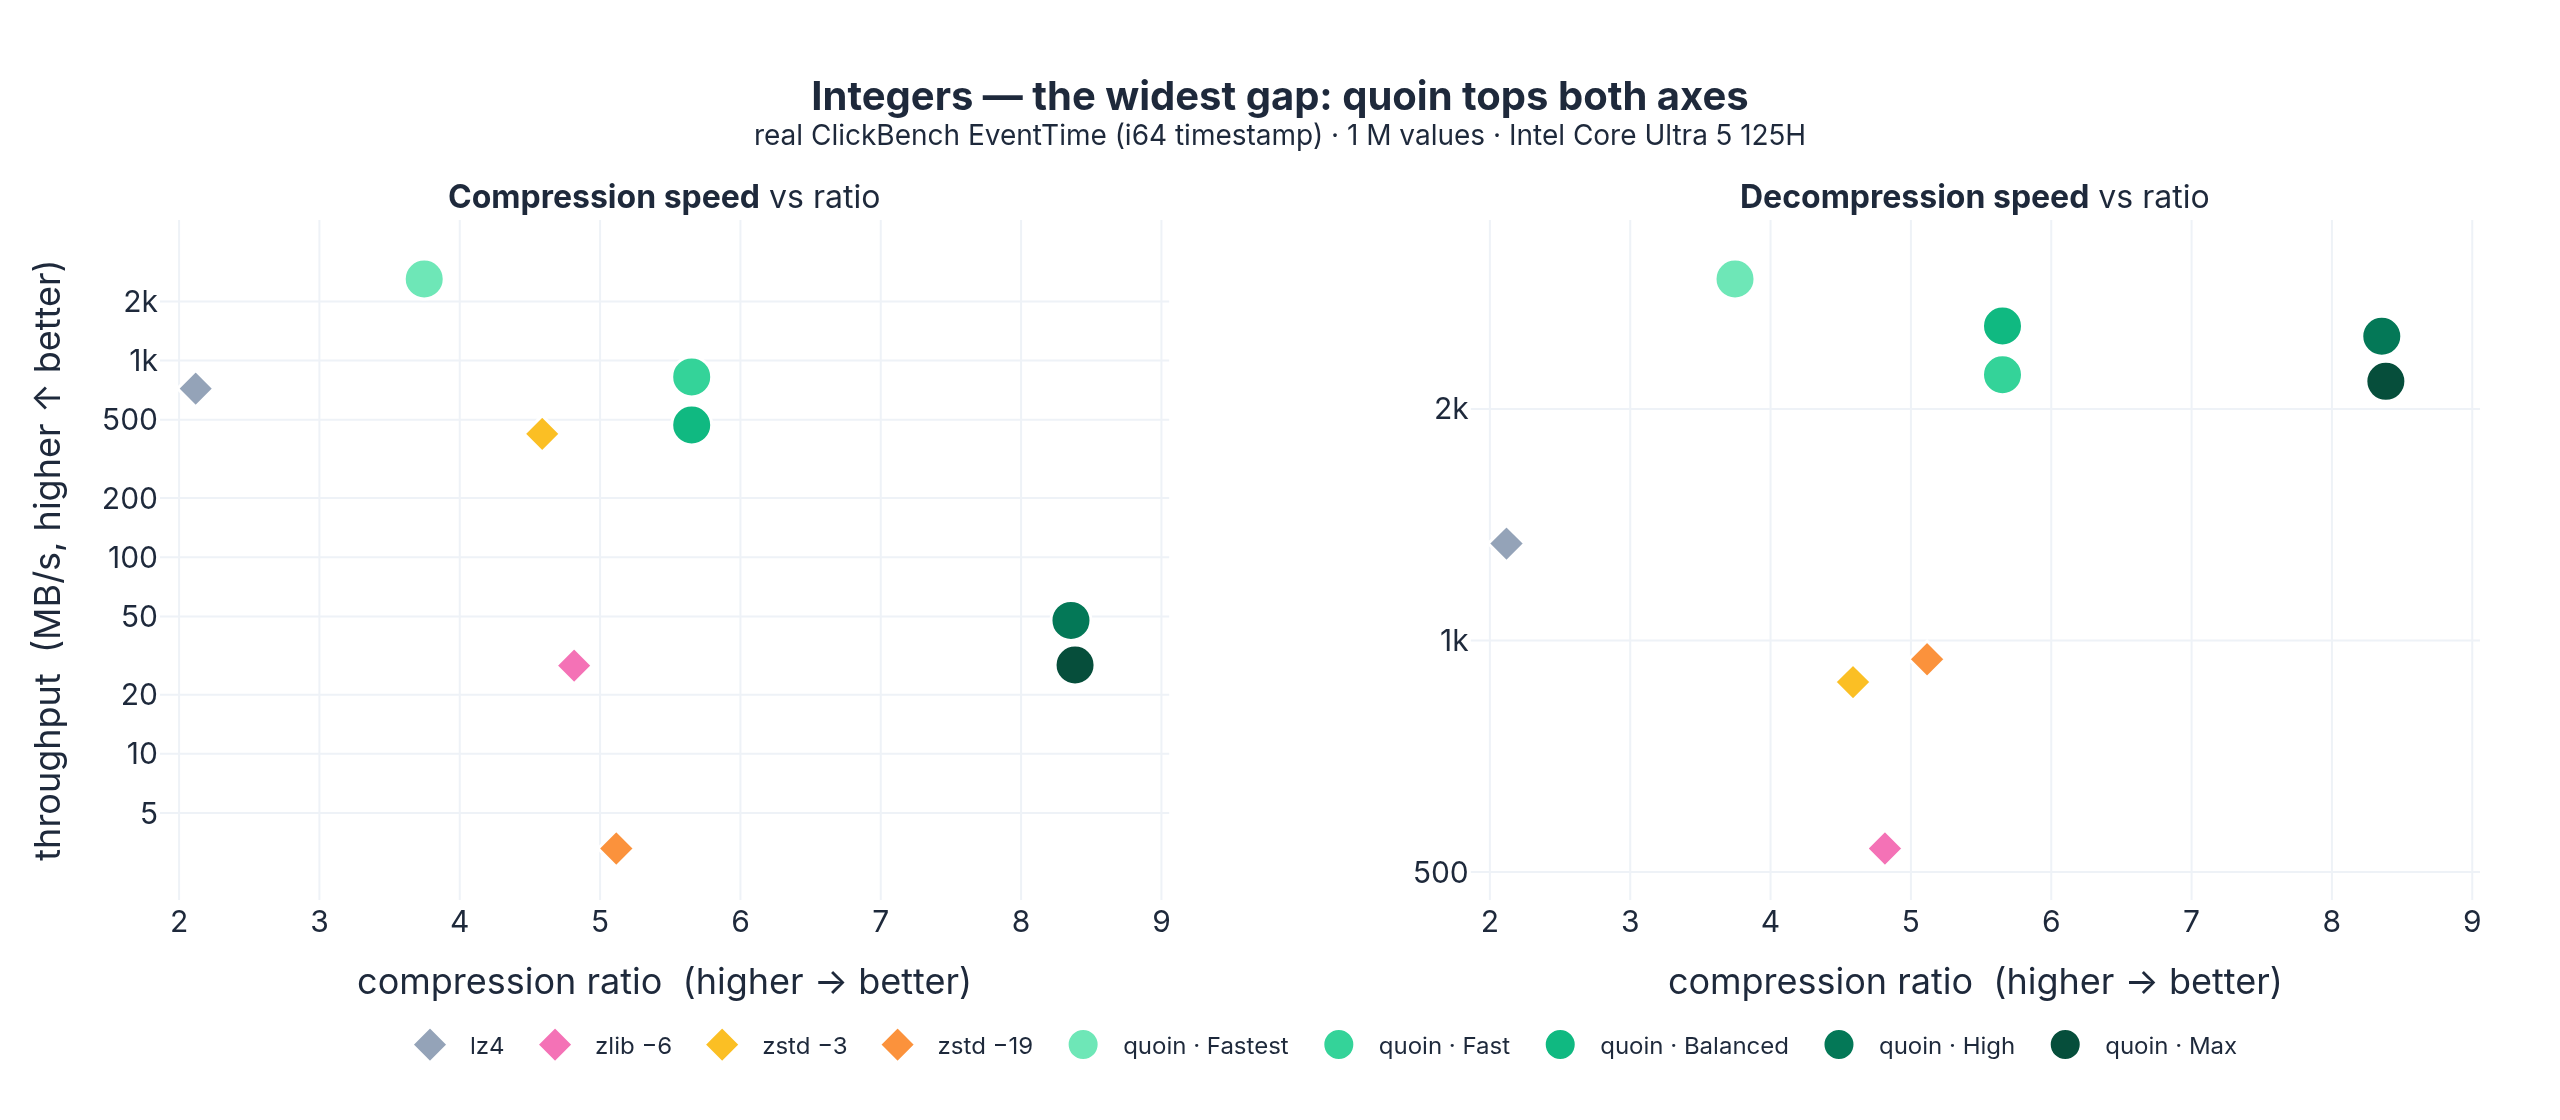
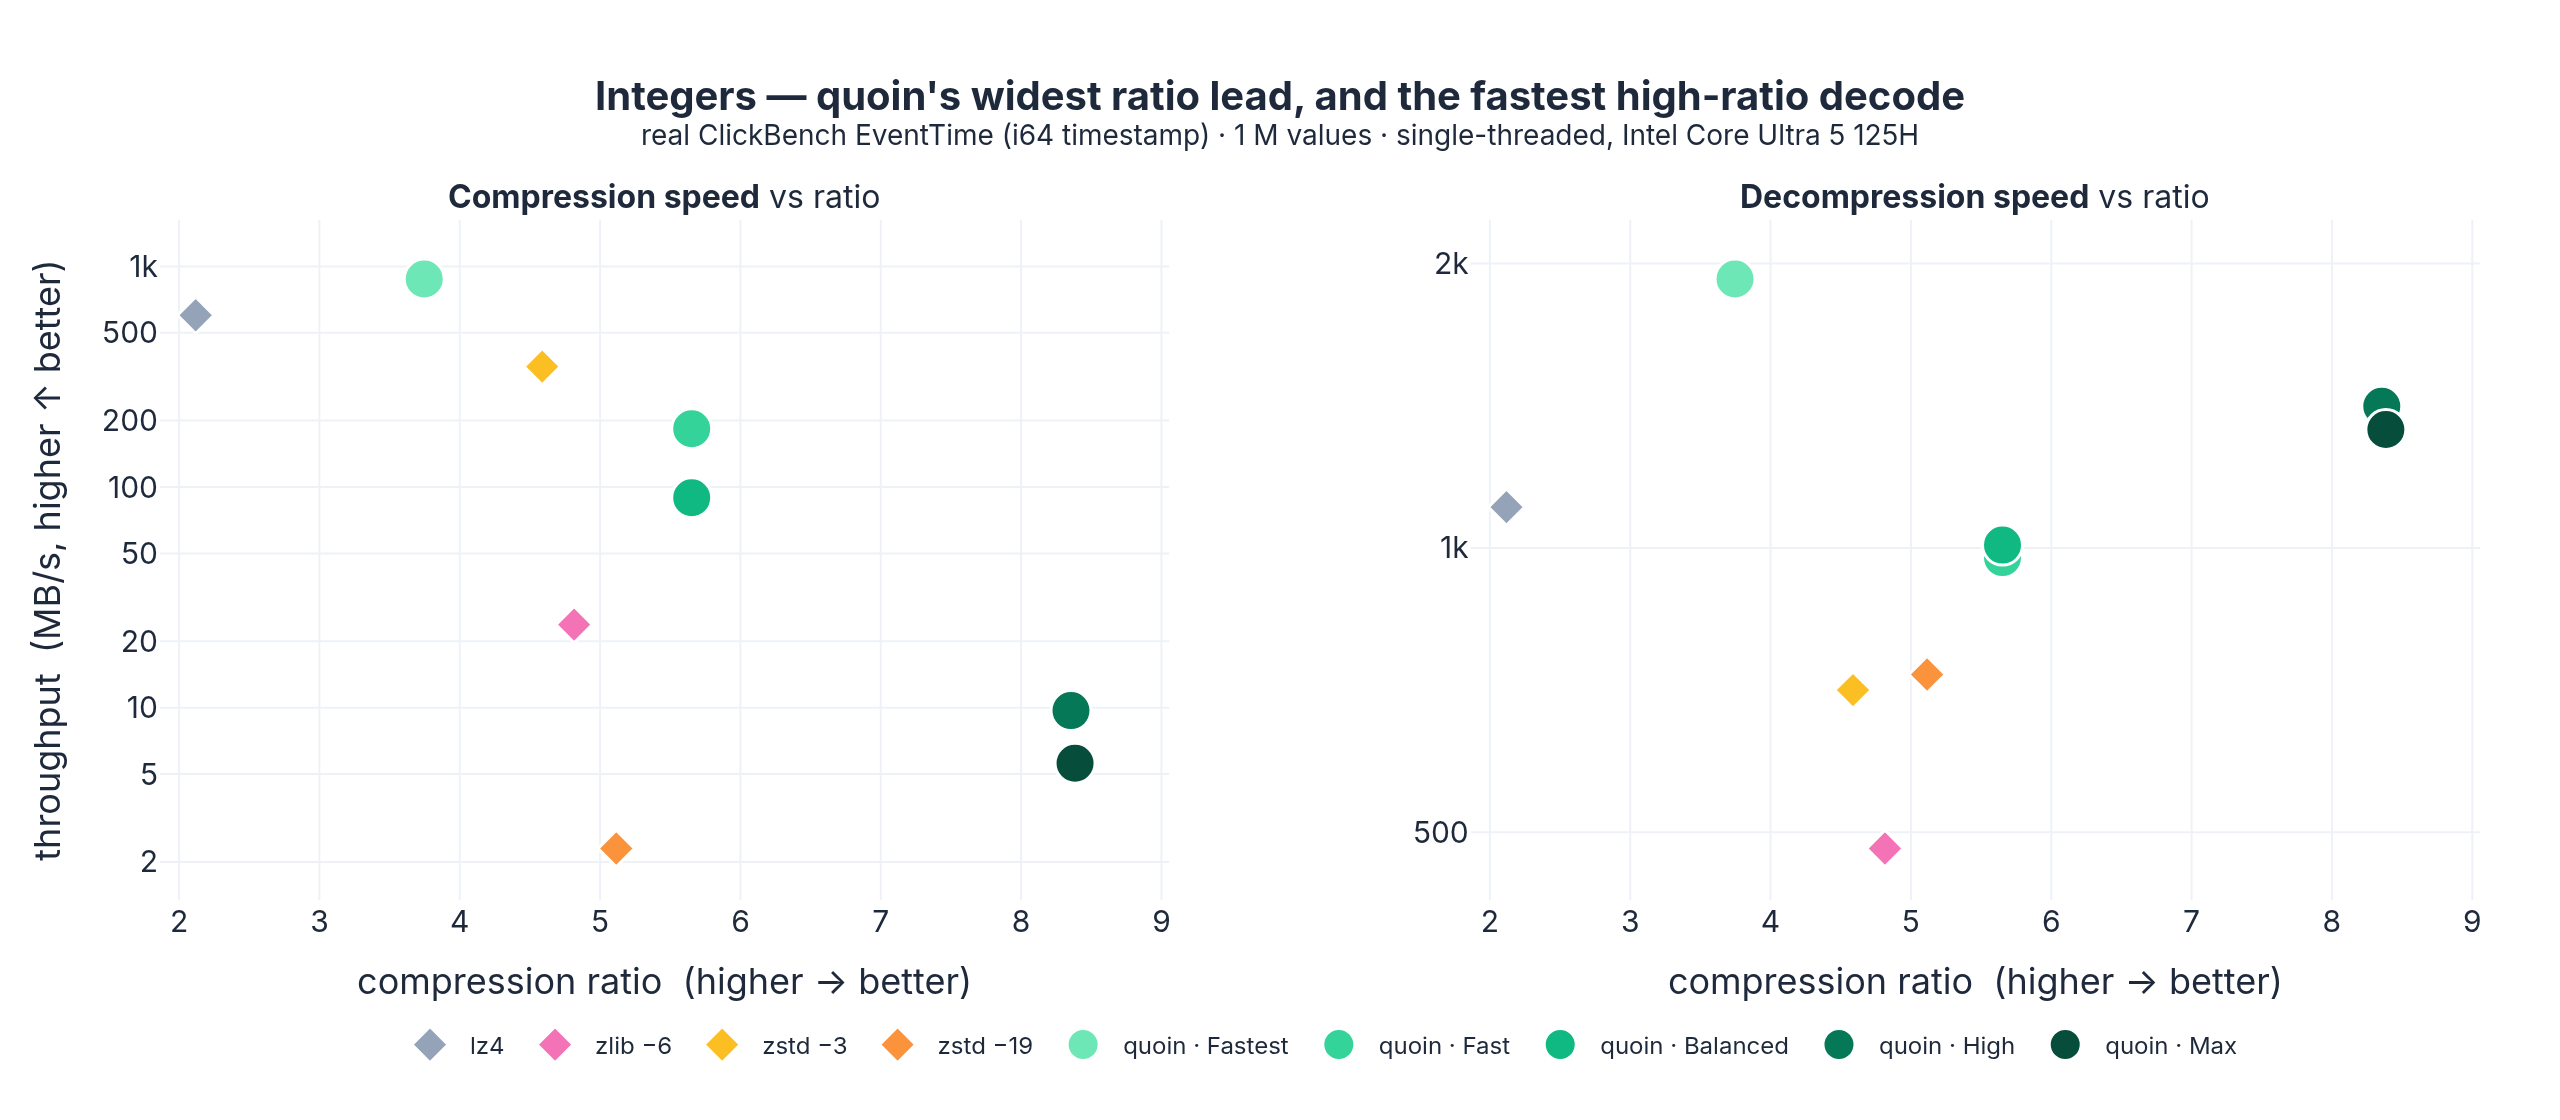
bench: measure single-threaded (no rayon) for a fair comparison; honest captions
The previous numbers ran quoin block-parallel (8 P-core threads) against
single-threaded lz4/zlib/zstd — not apples-to-apples. Rebuild quoin without the
parallel feature (no rayon), pin to one P-core (taskset -c 0), and re-measure both
suites. Single-threaded, quoin's win is ratio + decode speed; encode is a genuine
tradeoff (the per-block codec search is CPU-heavy), so the Pareto headlines no
longer claim 'tops both axes'. Regenerate all three per-type charts (now with the
full Fastest->Max level ladder and a shared legend) and update every table/prose
claim + methodology note in both READMEs and docs/BENCHMARKS.md.

Also lands three review fixes:
- Cargo.toml: declare rust-version = 1.88 (let-chains is the binding constraint).
- README: soften 'safe Rust' -> 'mostly safe Rust' and document the two unsafe
  blocks (CRC32C intrinsic, range-coder bounds elision) + pco's internal unsafe.
- bench_internals + benches/kernels.rs: bench the actual default rANS coder
  instead of the decode-only legacy tANS (needed to calibrate W_RC vs W_RANS).

diff --git a/benches/kernels.rs b/benches/kernels.rs
@@ -44,22 +44,25 @@ fn bench_entropy(c: &mut Criterion) {
     // A realistic residual stream: DFCM residuals of a smooth signal.
     let residuals = bi::dfcm_encode(&smooth_bits(), 16);
     let rc = bi::rc_compress(&residuals);
-    let tans = bi::tans_compress(&residuals);
+    let rans = bi::rans_compress(&residuals);
 
     let mut g = c.benchmark_group("entropy");
     g.throughput(Throughput::Bytes(residuals.len() as u64));
+    // The order-1 binary range coder: best ratio, slowest decode.
     g.bench_function("rc_compress", |b| {
         b.iter(|| bi::rc_compress(black_box(&residuals)))
     });
     g.bench_function("rc_decompress", |b| {
         b.iter(|| bi::rc_decompress(black_box(&rc), residuals.len()).unwrap())
     });
-    if let Some(t) = tans {
-        g.bench_function("tans_compress", |b| {
-            b.iter(|| bi::tans_compress(black_box(&residuals)))
+    // The 4-way interleaved rANS coder: the default at `Balanced`. Benchmarking
+    // it (not the decode-only legacy tANS) is what calibrates W_RC vs W_RANS.
+    if let Some(r) = rans {
+        g.bench_function("rans_compress", |b| {
+            b.iter(|| bi::rans_compress(black_box(&residuals)))
         });
-        g.bench_function("tans_decompress", |b| {
-            b.iter(|| bi::tans_decompress(black_box(&t), residuals.len()).unwrap())
+        g.bench_function("rans_decompress", |b| {
+            b.iter(|| bi::rans_decompress(black_box(&r), residuals.len()).unwrap())
         });
     }
     g.finish();

diff --git a/docs/plot_bench.py b/docs/plot_bench.py
@@ -93,18 +93,18 @@ def make_pareto(sub, headline, subtitle, fname):
 vol = df[(df.section == "volume") & (df.n == df[df.section == "volume"].n.max())]
 make_pareto(
     td[td.section == "EventTime"],
-    "Integers — the widest gap: quoin tops both axes",
-    "real ClickBench EventTime (i64 timestamp) · 1 M values · Intel Core Ultra 5 125H",
+    "Integers — quoin's widest ratio lead, and the fastest high-ratio decode",
+    "real ClickBench EventTime (i64 timestamp) · 1 M values · single-threaded, Intel Core Ultra 5 125H",
     "pareto_int.png")
 make_pareto(
     td[td.section == "city_temperature"],
-    "Decimals — quoin-Max takes the ratio, at a fraction of the encode cost",
-    "city_temperature stored as Decimal128 · 2 M values",
+    "Decimals — quoin-Max takes the best ratio; quoin leads on decode",
+    "city_temperature stored as Decimal128 · 2 M values · single-threaded",
     "pareto_decimal.png")
 make_pareto(
     vol[["codec", "ratio", "enc_mbps", "dec_mbps"]],
-    "Floats — quoin's hardest case, and still top-right",
-    "real arade4 f64 column · 9.9 M values",
+    "Floats — the narrowest gap (quoin's hardest case); still best ratio + fast decode",
+    "real arade4 f64 column · 9.9 M values · single-threaded",
     "pareto_float.png")
 
 

diff --git a/src/lib.rs b/src/lib.rs
@@ -572,6 +572,14 @@ pub mod bench_internals {
     pub fn tans_decompress(bytes: &[u8], max_len: usize) -> Result<Vec<u8>, Error> {
         crate::entropy::tans::decompress_bytes(bytes, max_len)
     }
+    /// The 4-way interleaved rANS coder — the actual default entropy coder at
+    /// `Balanced` (unlike the legacy `tans`, which is decode-only).
+    pub fn rans_compress(bytes: &[u8]) -> Option<Vec<u8>> {
+        crate::entropy::rans::compress_bytes(bytes)
+    }
+    pub fn rans_decompress(bytes: &[u8], max_len: usize) -> Result<Vec<u8>, Error> {
+        crate::entropy::rans::decompress_bytes(bytes, max_len)
+    }
 
     pub fn fcm_encode(vals: &[u64], predictor_log2: u8) -> Vec<u8> {
         crate::codecs::pred::encode(vals, predictor_log2)

diff --git a/README.md b/README.md
@@ -2,8 +2,13 @@
 
 📖 [Русская версия](README.ru.md)
 
-**A lossless, type-aware compressor for columns of numbers — written in safe
-Rust, built on the Apache Arrow data model.**
+**A lossless, type-aware compressor for columns of numbers — written in mostly
+safe Rust, built on the Apache Arrow data model.**
+
+(The only `unsafe` in quoin's own code is two small, documented blocks: the CRC32C
+hardware intrinsic in `hash.rs` and a bounds-check elision in the range coder's
+hot loop — every SIMD kernel also has a bit-exact safe fallback. The vendored
+`pco` backend uses more internal `unsafe` for its fast bit-reader.)
 
 quoin compresses columns of `f64`/`f32`/`i64`/`u64`/`i32`/`u32`/decimal (with
 null/validity bitmaps) by running a **per-block competition** of lightweight,
@@ -225,48 +230,62 @@ How that compares to **Parquet** as a compression layer:
 ## Benchmarks
 
 Measured on an Intel Core Ultra 5 125H, stable Rust release build (no
-`target-cpu=native`), **pinned to the 4 performance cores** (`taskset -c 0-7`,
-`RAYON_NUM_THREADS=8`) so the numbers are stable and don't drift onto the E-cores.
-Integer columns are real `i64`/`i32` from the ClickBench `hits` dataset; float
-columns are the **ALP benchmark corpus**; decimal columns are real f64 values
-stored as fixed-point `Decimal128`. Ratio = original ÷ compressed (higher is
-better); throughput in MB/s of *uncompressed* data (median of 3 trials). Baselines
-(`lz4`, `zlib`, `zstd`) are single-threaded bulk APIs; quoin uses its default
-block-parallel (rayon) path. Reproduce with:
+`target-cpu=native`), **single-threaded** — quoin built **without the `parallel`
+feature** (no rayon) and pinned to one P-core (`taskset -c 0`), so it's measured
+apples-to-apples against the single-threaded `lz4`/`zlib`/`zstd` bulk APIs. (quoin's
+default build *is* block-parallel; that just isn't a fair thing to put on the same
+axis as a single-threaded baseline.) Integer columns are real `i64`/`i32` from the
+ClickBench `hits` dataset; float columns are the **ALP benchmark corpus**; decimal
+columns are real f64 values stored as fixed-point `Decimal128`. Ratio = original ÷
+compressed (higher is better); throughput in MB/s of *uncompressed* data (median of
+3 trials). Reproduce with:
 
 ```bash
-# f64 (ALP corpus)
-cargo run --release --example bench_readme \
+# f64 (ALP corpus) — single-threaded, no rayon
+taskset -c 0 cargo run --release --no-default-features --example bench_readme \
     --features bench-zstd,bench-lz4,bench-deflate > bench.csv
 # integers (ClickBench parquet) + Decimal128
 PARQUET_FILE=datasets/parquet/clickbench_hits_0.parquet \
-cargo run --release --example bench_typed \
+taskset -c 0 cargo run --release --no-default-features --example bench_typed \
     --features bench-parquet,bench-zstd,bench-lz4,bench-deflate > typed.csv
 ```
 
 ### The ratio ⇄ speed tradeoff, per data type
 
-Each codec is one point — **top-right is best** (high ratio, high throughput) —
-with compression speed on the left and decompression speed on the right. The
-charts are ordered by how dramatic quoin's advantage is: **integers and decimals
-first** (where the specialized lanes pull furthest ahead), **floats last** (quoin's
-hardest case).
+All numbers are **single-threaded** (one P-core, no rayon) so quoin and the
+single-threaded `lz4`/`zlib`/`zstd` are measured apples-to-apples. Each codec is
+one point — **top-right is best** (high ratio, high throughput) — compression speed
+on the left, decompression on the right. The charts are ordered by quoin's ratio
+lead: **integers and decimals first** (where the specialized lanes pull furthest
+ahead), **floats last** (quoin's hardest case).
 
-**Integers** — quoin-Balanced lands top-right on *both* axes (higher ratio *and*
-faster than every baseline); quoin-Max stretches the ratio to 8.4×, while
-`zstd -19` only reaches 5.1× by collapsing to 3.3 MB/s compress:
+Two honest takeaways across all three types:
+
+- **Decode is quoin's frontier.** quoin holds the best ratio *and* a decode speed
+  at or above the baselines — the quoin levels trace the top-right edge of the
+  decompress panel (Fastest = fastest decode, Max = highest ratio, both still quick).
+- **Encode is a deliberate tradeoff.** The per-block codec *search* costs CPU, so
+  quoin's high-ratio levels encode slower than fast `lz4`/`zstd -3` (which buy that
+  speed with a far worse ratio). quoin still encodes **10–40× faster than `zstd -19`
+  at a better ratio**, and the level knob (Fastest→Max) lets you trade encode speed
+  for ratio explicitly.
+
+**Integers** — quoin-Max reaches 8.4× (vs `zstd -19`'s 5.1×) and decodes faster than
+every baseline; on encode it's slower than `zstd -3` but still ~3× faster than
+`zstd -19` at a much higher ratio:
 
 ![integer columns: ratio vs speed](docs/images/pareto_int.png)
 
-**Decimals** — quoin-Max takes the best ratio (17.4× vs `zstd -19`'s 14.3×) at
-~15× the encode speed; quoin-Balanced trades a hair of ratio for ~40× faster
-encode and the fastest decode:
+**Decimals** — quoin-Max takes the best ratio (17.4× vs `zstd -19`'s 14.3×);
+quoin-Balanced gets 13.3× at **40 MB/s** encode versus `zstd -19`'s 14.3× at
+**3 MB/s** (~13× faster), and the quoin levels own the decode panel:
 
 ![decimal columns: ratio vs speed](docs/images/pareto_decimal.png)
 
-**Floats** — the narrowest gap (mantissa bits are high-entropy), yet quoin still
-sits top-right: quoin-Balanced beats `zstd -19`'s ratio (2.53 vs 2.20) while
-compressing **~145× faster** and decompressing **~3.6× faster**:
+**Floats** — the narrowest gap (mantissa bits are high-entropy): quoin-Balanced
+beats `zstd -19`'s ratio (2.53 vs 2.20) and decodes **~2.7× faster**; here the fast
+`lz4`/`zstd -3` do encode faster (at 1.35–1.89× ratio), so floats are where quoin's
+encode-search cost is most visible:
 
 ![float columns: ratio vs speed](docs/images/pareto_float.png)
 
@@ -275,15 +294,15 @@ columns truncate the same data to show ratio is size-stable):
 
 | codec | ratio | compress MB/s | decompress MB/s | ratio @100 K | ratio @1 M |
 | --- | ---: | ---: | ---: | ---: | ---: |
-| quoin (Fastest) | 1.17 | **1561** | 2575 | 1.18 | 1.17 |
-| quoin (Fast) | 2.52 | 387 | 2572 | 2.47 | 2.51 |
-| **quoin (Balanced)** | **2.53** | 352 | **2607** | 2.55 | 2.52 |
-| quoin (High) | 2.72 | 114 | 2012 | 2.72 | 2.71 |
-| **quoin (Max)** | **2.72** | 45 | 1976 | 2.72 | 2.71 |
-| lz4 | 1.35 | 363 | 1856 | 1.32 | 1.34 |
-| zlib -6 | 1.95 | 40 | 360 | 1.91 | 1.94 |
-| zstd -3 | 1.89 | 201 | 738 | 1.86 | 1.88 |
-| zstd -19 | 2.20 | **2.4** | 730 | 2.17 | 2.19 |
+| quoin (Fastest) | 1.17 | 496 | 1144 | 1.18 | 1.17 |
+| quoin (Fast) | 2.52 | 78 | **1594** | 2.47 | 2.51 |
+| **quoin (Balanced)** | **2.53** | 67 | 1580 | 2.55 | 2.52 |
+| quoin (High) | 2.72 | 22 | 820 | 2.72 | 2.71 |
+| **quoin (Max)** | **2.72** | 9 | 750 | 2.72 | 2.71 |
+| lz4 | 1.35 | **326** | 1577 | 1.32 | 1.34 |
+| zlib -6 | 1.95 | 32 | 305 | 1.91 | 1.94 |
+| zstd -3 | 1.89 | 172 | 633 | 1.86 | 1.88 |
+| zstd -19 | 2.20 | 2.4 | 591 | 2.17 | 2.19 |
 
 ### Ratio across real columns
 
@@ -336,11 +355,11 @@ the raw little-endian value bytes.
 Takeaways: quoin-Max takes the best ratio on **every decimal column** and most
 integer columns; it ties everyone at ~1.0× on genuinely random IDs (`WatchID` —
 nothing compresses that), and `zstd -19` edges it on one structured i32
-(`RegionID`). The bigger story is the **speed gap at equal-or-better ratio**: on
-`city_temperature` decimals quoin-Balanced reaches 13.3× at **134 MB/s** compress,
-versus `zstd -19`'s 14.3× at **3.2 MB/s** — ~40× faster encode for a comparable
-ratio, and quoin-Max then beats it outright. The relative speed advantage is the
-same one f64 shows, but the absolute ratios are far higher.
+(`RegionID`). Single-threaded, quoin's win is **ratio + decode speed**: on
+`city_temperature` decimals quoin-Balanced reaches 13.3× decoding at ~2 GB/s, and
+quoin-Max pushes to 17.4× — above `zstd -19`'s 14.3×. The same caveat as the floats
+applies on encode: the codec search is CPU-heavy, so the fast LZ baselines encode
+quicker (at far lower ratio) while quoin still encodes well ahead of `zstd -19`.
 
 ## Performance: SIMD, multiversion, rayon
 

diff --git a/docs/BENCHMARKS.md b/docs/BENCHMARKS.md
@@ -1,23 +1,22 @@
 # Benchmarks
 
-## README benchmark — P-core-pinned (`bench_readme.rs` / `bench_typed.rs`)
+## README benchmark — single-threaded (`bench_readme.rs` / `bench_typed.rs`)
 
 The authoritative numbers behind the README. Measured on an Intel Core Ultra 5
-125H, stable Rust release build (no `target-cpu=native`), **pinned to the 4
-performance cores** (`taskset -c 0-7`, `RAYON_NUM_THREADS=8`) so throughput is
-stable and never drifts onto the E-cores. Ratio = original ÷ compressed;
-throughput in MB/s of *uncompressed* data (median of 3). Baselines (`lz4`/`zlib`/
-`zstd`) are single-threaded bulk APIs; quoin uses its block-parallel rayon path.
+125H, stable Rust release build (no `target-cpu=native`), **single-threaded** —
+quoin built **without the `parallel` feature** (no rayon) and pinned to one P-core
+(`taskset -c 0`), so it's apples-to-apples with the single-threaded `lz4`/`zlib`/
+`zstd` bulk APIs (quoin's default build is block-parallel — not a fair thing to put
+on one axis against a single-threaded baseline). Ratio = original ÷ compressed;
+throughput in MB/s of *uncompressed* data (median of 3).
 
 ```bash
-# f64 (ALP corpus)
-RAYON_NUM_THREADS=8 taskset -c 0-7 \
-  cargo run --release --example bench_readme \
+# f64 (ALP corpus) — single-threaded, no rayon
+taskset -c 0 cargo run --release --no-default-features --example bench_readme \
     --features bench-zstd,bench-lz4,bench-deflate > bench.csv
 # integers (ClickBench parquet) + Decimal128
 PARQUET_FILE=datasets/parquet/clickbench_hits_0.parquet \
-RAYON_NUM_THREADS=8 taskset -c 0-7 \
-  cargo run --release --example bench_typed \
+taskset -c 0 cargo run --release --no-default-features --example bench_typed \
     --features bench-parquet,bench-zstd,bench-lz4,bench-deflate > typed.csv
 ```
 
@@ -25,18 +24,21 @@ RAYON_NUM_THREADS=8 taskset -c 0-7 \
 
 | codec | ratio | compress MB/s | decompress MB/s |
 | --- | ---: | ---: | ---: |
-| quoin (Fastest) | 1.17 | 1561 | 2575 |
-| quoin (Fast) | 2.52 | 387 | 2572 |
-| **quoin (Balanced)** | **2.53** | 352 | **2607** |
-| quoin (High) | 2.72 | 114 | 2012 |
-| **quoin (Max)** | **2.72** | 45 | 1976 |
-| lz4 | 1.35 | 363 | 1856 |
-| zlib -6 | 1.95 | 40 | 360 |
-| zstd -3 | 1.89 | 201 | 738 |
-| zstd -19 | 2.20 | 2.4 | 730 |
+| quoin (Fastest) | 1.17 | 496 | 1144 |
+| quoin (Fast) | 2.52 | 78 | **1594** |
+| **quoin (Balanced)** | **2.53** | 67 | 1580 |
+| quoin (High) | 2.72 | 22 | 820 |
+| **quoin (Max)** | **2.72** | 9 | 750 |
+| lz4 | 1.35 | **326** | 1577 |
+| zlib -6 | 1.95 | 32 | 305 |
+| zstd -3 | 1.89 | 172 | 633 |
+| zstd -19 | 2.20 | 2.4 | 591 |
 
-quoin-Balanced beats `zstd -19`'s ratio (2.53 vs 2.20) at **~145× faster compress
-and ~3.6× faster decompress**; the Fastest→Max ladder spans 1561→45 MB/s encode.
+quoin wins **ratio and decode**: quoin-Balanced beats `zstd -19`'s ratio (2.53 vs
+2.20) and decodes **~2.7× faster**. Encode is a deliberate tradeoff — the per-block
+codec search is CPU-heavy, so the fast LZ baselines encode quicker (at far lower
+ratio) while quoin still encodes ~30× faster than `zstd -19`; the Fastest→Max ladder
+spans 496→9 MB/s encode.
 
 ### Floats — ratio across the ALP corpus (quoin-Max vs baselines)
 
@@ -67,10 +69,12 @@ and ~3.6× faster decompress**; the Fastest→Max ladder spans 1561→45 MB/s en
 
 Type-awareness pulls furthest ahead on integers/decimals (f64 is the hardest case).
 quoin-Max takes the best ratio on every decimal column and most integer columns;
-it ties at ~1.0× on random IDs (`WatchID`), and `zstd -19` edges `RegionID`. The
-speed gap is the real win: on `city_temperature` decimals quoin-Balanced reaches
-13.3× at **134 MB/s** compress vs `zstd -19`'s 14.3× at **3.2 MB/s** (~40× faster),
-and quoin-Max then beats it on ratio too. The plots are in `docs/images/`
+it ties at ~1.0× on random IDs (`WatchID`), and `zstd -19` edges `RegionID`.
+Single-threaded, quoin's win is ratio + decode: on `city_temperature` decimals
+quoin-Max reaches 17.4× (vs `zstd -19`'s 14.3×) decoding at ~700 MB/s, quoin-Balanced
+13.3× decoding at ~2 GB/s. Encode is the tradeoff (the codec search is CPU-heavy):
+the fast LZ baselines encode quicker at far lower ratio, while quoin still encodes
+well ahead of `zstd -19`. The plots are in `docs/images/`
 (`pareto_int/decimal/float.png`, `ratio_breadth.png`, `typed_ratio.png`),
 regenerated by `docs/plot_bench.py`.
 